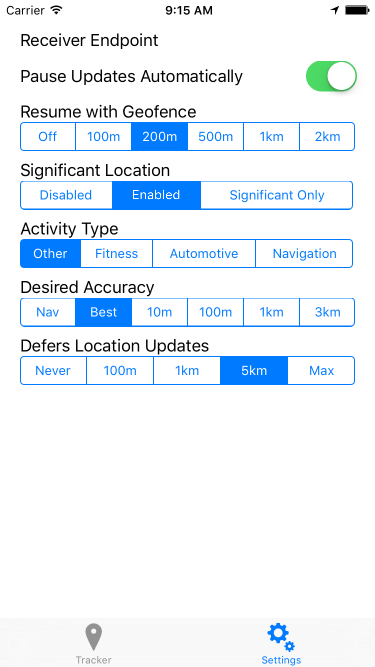
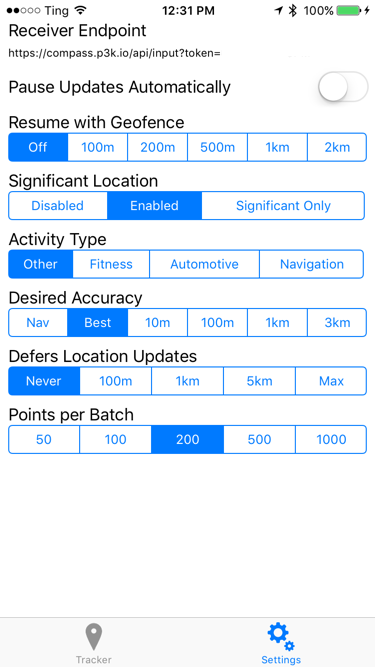
add control to set batch size

diff --git a/GPSLogger/GLManager.m b/GPSLogger/GLManager.m
@@ -37,6 +37,7 @@ static NSString *const GLLocationQueueName = @"GLLocationQueue";
 NSNumber *_sendingInterval;
 NSArray *_tripModes;
 bool _currentTripHasNewData;
+int _pointsPerBatch;
 CLLocationDistance _currentTripDistanceCached;
 AFHTTPSessionManager *_httpClient;
 
@@ -113,7 +114,7 @@ AFHTTPSessionManager *_httpClient;
                 // Remove nil objects
                 [accessor removeDictionaryForKey:key];
             }
-            return (BOOL)(locationUpdates.count >= PointsPerBatch);
+            return (BOOL)(locationUpdates.count >= _pointsPerBatch);
         }];
         
     }];
@@ -297,6 +298,8 @@ AFHTTPSessionManager *_httpClient;
             self.lastMotion = activity;
         }];
     }
+    
+    _pointsPerBatch = self.pointsPerBatch;
     
     // Set the last location if location manager has a last location.
     // This will be set for example when the app launches due to a signification location change,
@@ -685,6 +688,20 @@ AFHTTPSessionManager *_httpClient;
         [self.locationManager disallowDeferredLocationUpdates];
     }
 }
+
+- (int)pointsPerBatch {
+    if([self defaultsKeyExists:GLPointsPerBatchDefaultsName]) {
+        return [[NSUserDefaults standardUserDefaults] integerForKey:GLPointsPerBatchDefaultsName];
+    } else {
+        return 200;
+    }
+}
+- (void)setPointsPerBatch:(int)points {
+    [[NSUserDefaults standardUserDefaults] setInteger:points forKey:GLPointsPerBatchDefaultsName];
+    [[NSUserDefaults standardUserDefaults] synchronize];
+    _pointsPerBatch = points;
+}
+
 
 #pragma mark GLManager
 

diff --git a/GPSLogger/SecondViewController.m b/GPSLogger/SecondViewController.m
@@ -87,6 +87,19 @@
     } else {
         self.defersLocationUpdates.selectedSegmentIndex = 4;
     }
+    
+    int pointsPerBatch = [GLManager sharedManager].pointsPerBatch;
+    if(pointsPerBatch == 50) {
+        self.pointsPerBatchControl.selectedSegmentIndex = 0;
+    } else if(pointsPerBatch == 100) {
+        self.pointsPerBatchControl.selectedSegmentIndex = 1;
+    } else if(pointsPerBatch == 200) {
+        self.pointsPerBatchControl.selectedSegmentIndex = 2;
+    } else if(pointsPerBatch == 500) {
+        self.pointsPerBatchControl.selectedSegmentIndex = 3;
+    } else if(pointsPerBatch == 1000) {
+        self.pointsPerBatchControl.selectedSegmentIndex = 4;
+    }
 }
 
 - (void)didReceiveMemoryWarning {
@@ -234,5 +247,21 @@
     [GLManager sharedManager].defersLocationUpdates = d;
 }
 
+- (IBAction)pointsPerBatchWasChanged:(UISegmentedControl *)sender {
+    int pointsPerBatch;
+    switch(sender.selectedSegmentIndex) {
+        case 0:
+            pointsPerBatch = 50; break;
+        case 1:
+            pointsPerBatch = 100; break;
+        case 2:
+            pointsPerBatch = 200; break;
+        case 3:
+            pointsPerBatch = 500; break;
+        case 4:
+            pointsPerBatch = 1000; break;
+    }
+    [GLManager sharedManager].pointsPerBatch = pointsPerBatch;
+}
 
 @end

diff --git a/GPSLogger/GLManager.h b/GPSLogger/GLManager.h
@@ -24,6 +24,7 @@ static NSString *const GLActivityTypeDefaultsName = @"GLActivityTypeDefaults";
 static NSString *const GLDesiredAccuracyDefaultsName = @"GLDesiredAccuracyDefaults";
 static NSString *const GLDefersLocationUpdatesDefaultsName = @"GLDefersLocationUpdatesDefaults";
 static NSString *const GLSignificantLocationModeDefaultsName = @"GLSignificantLocationModeDefaults";
+static NSString *const GLPointsPerBatchDefaultsName = @"GLPointsPerBatchDefaults";
 
 static NSString *const GLTripModeDefaultsName = @"GLTripModeDefaults";
 static NSString *const GLTripStartTimeDefaultsName = @"GLTripStartTimeDefaults";
@@ -37,7 +38,6 @@ static NSString *const GLTripModeBus = @"bus";
 static NSString *const GLTripModeTrain = @"train";
 static NSString *const GLTripModePlane = @"plane";
 
-static int const PointsPerBatch = 200;
 static double const MetersToMiles = 0.000621371;
 
 typedef enum {
@@ -60,6 +60,7 @@ typedef enum {
 @property (nonatomic) CLActivityType activityType;
 @property (nonatomic) CLLocationAccuracy desiredAccuracy;
 @property (nonatomic) CLLocationDistance defersLocationUpdates;
+@property (nonatomic) int pointsPerBatch;
 
 @property (readonly) BOOL trackingEnabled;
 @property (readonly) BOOL sendInProgress;

diff --git a/GPSLogger/SecondViewController.h b/GPSLogger/SecondViewController.h
@@ -17,6 +17,7 @@
 @property (strong, nonatomic) IBOutlet UISegmentedControl *activityType;
 @property (strong, nonatomic) IBOutlet UISegmentedControl *desiredAccuracy;
 @property (strong, nonatomic) IBOutlet UISegmentedControl *defersLocationUpdates;
+@property (strong, nonatomic) IBOutlet UISegmentedControl *pointsPerBatchControl;
 
 - (IBAction)apiEndpointFieldWasPressed:(UILongPressGestureRecognizer *)sender;
 
@@ -26,6 +27,7 @@
 - (IBAction)activityTypeControlWasChanged:(UISegmentedControl *)sender;
 - (IBAction)desiredAccuracyWasChanged:(UISegmentedControl *)sender;
 - (IBAction)defersLocationUpdatesWasChanged:(UISegmentedControl *)sender;
+- (IBAction)pointsPerBatchWasChanged:(UISegmentedControl *)sender;
 
 @end
 

diff --git a/README.md b/README.md
@@ -52,6 +52,7 @@ These controls all set various properties of the CoreLocation LocationManager ob
 * `Activity Type` - According to Apple, "The location manager uses the information in this property as a cue to determine when location updates may be automatically paused.". See [activityType](https://developer.apple.com/reference/corelocation/cllocationmanager/1620567-activitytype) for more details.
 * `Desired Accuracy` - Sets the [desiredAccuracy](https://developer.apple.com/reference/corelocation/cllocationmanager/1423836-desiredaccuracy) property of the location manager. This is only a request for the general level of accuracy, not a guarantee. Setting to "Best" will use the most battery but will get highest accuracy location updates. Setting to "3km" will save the most battery but will result in infrequent location updates.
 * `Defers Location Updates` - This allows the app to be paused, while the OS continues to collect location updates in the background, delivering them to the app in a batch at some interval. It is worth reading Apple's documentation of [deferred location updates](https://developer.apple.com/reference/corelocation/cllocationmanager/1620547-allowdeferredlocationupdates) for more information. This can have an effect on improving battery life.
+* `Points per Batch` - Controls the number of location updates that will be sent with each HTTP request. Setting this to 50 will mean more requests to the server are required to flush the queue, but each request will be smaller. Setting this to 1000 means you'll be able to flush the queue with fewer requests, but each request will be much larger. Each location point can be around 600 bytes when serialized as JSON, so sending 1000 points in a request will mean the request body may be around 600kb. Lower batch sizes are likely better for flaky network connections, and larger batch sizes are good when on a reliable connection. Note that this does not affect the frequency at which data is sent to the server.
 
 
 ### Usage Profiles
